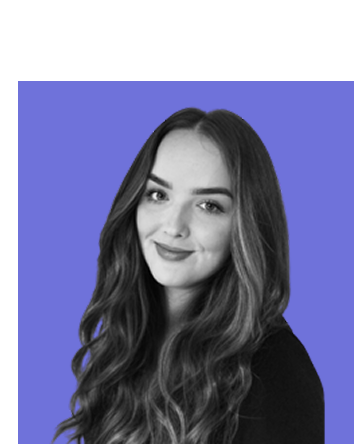
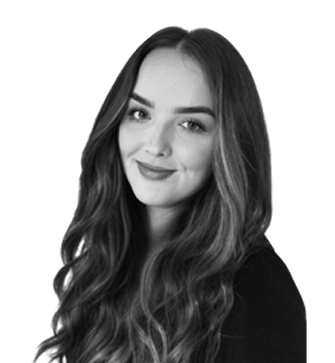
feat(about): team member colors / danuis conf photo

diff --git a/src/components/about-us/team.tsx b/src/components/about-us/team.tsx
@@ -1,11 +1,14 @@
 import {teamMembers} from "@/lib/about-us-data";
+import Image from "next/image";
+import {cn} from "@/lib/utils";
 
 export function Team() {
   return (
       <div className="flex flex-col gap-(--space-xl)">
         <div className="flex flex-col gap-(--space-sm) max-w-1/2">
           <h3 className="">We care about the quality of what we build</h3>
-          <p className="">FootyLabs was created by a small, dedicated team passionate about football and technology. Our team is
+          <p className="">FootyLabs was created by a small, dedicated team passionate about football and technology. Our
+            team is
             distributed across Europe, united by a shared mission — to make football management simpler, smarter, and
             more
             transparent.</p>
@@ -13,8 +16,11 @@ export function Team() {
         <div className="flex flex-wrap w-full gap-(--space-lg)">
           {
             teamMembers.map((member, index) => (
-                <div key={index} className="flex flex-col just sm:gap-(--space-sm) basis-[45%] lg:basis-[21%] 2xl:basis-[17%] ">
-                  <div className="bg-gray-400 h-24 w-24"></div>
+                <div key={index}
+                     className="flex flex-col just sm:gap-(--space-sm) basis-[45%] lg:basis-[21%] 2xl:basis-[17%] ">
+                  <div className={cn("h-24 w-24 rounded-lg overflow-hidden", index % 2 ? "bg-primary-light" : "bg-yellow-light")}>
+                    {member?.imageUrl && <Image src={member.imageUrl!} alt={member.name} width={96} height={96}/>}
+                  </div>
                   <div className="flex flex-col gap-1">
                     <span>{member.name}</span>
                     <span className="text-muted-foreground">{member.role}</span>

diff --git a/src/components/about-us/our-craft.tsx b/src/components/about-us/our-craft.tsx
@@ -1,8 +1,10 @@
 import {teamMembers} from "@/lib/about-us-data";
+import Image from "next/image";
+import React from "react";
 
 export function OurCraft() {
   return (
-      <div className="flex flex-col gap-(--space-xl)">
+      <div className="flex flex-col gap-(--space-xl) items-center">
         <div className="flex flex-col sm:flex-row gap-(--space-md) justify-between">
           <h3 className="basis-1/2">We're building the platform for football professionals who care about progress</h3>
           <p className="basis-1/2 text-foreground/85">
@@ -20,6 +22,8 @@ export function OurCraft() {
             Today, players, agents, and clubs across Europe use FootyLabs to simplify their workflows and focus on what
             really matters: growing the game and unlocking potential.</p>
         </div>
+        <Image src={"/resources/danius-conf.png"} alt={"saka"} width={500} height={500}/>
+
 
       </div>
   )

diff --git a/src/lib/about-us-data.ts b/src/lib/about-us-data.ts
@@ -9,22 +9,22 @@ export const teamMembers: TeamMember[] = [
   {
     name: "Danius",
     role: "Co-founder, CEO",
-    // imageUrl: "/team/danius.jpg", // Optional: add actual image paths
+    imageUrl: "/resources/danius.png",
   },
   {
     name: "Joris",
     role: "Junior Software Developer",
-    // imageUrl: "/team/jane.jpg",
+    imageUrl: "/resources/joris.png",
   },
   {
     name: "Nadjib",
     role: "Head of AI",
-    // imageUrl: "/team/mike.jpg",
+    imageUrl: "/resources/nadjib.png",
   },
   {
     name: "Evelina",
     role: "Marketing Specialist",
-    // imageUrl: "/team/sarah.jpg",
+    imageUrl: "/resources/evelina.png",
   },
   {
     name: "Aleksis",
